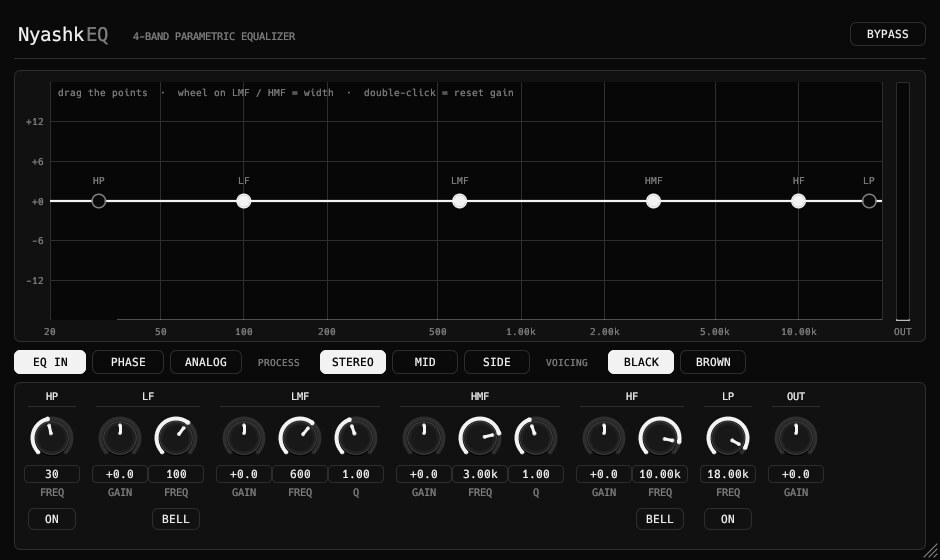
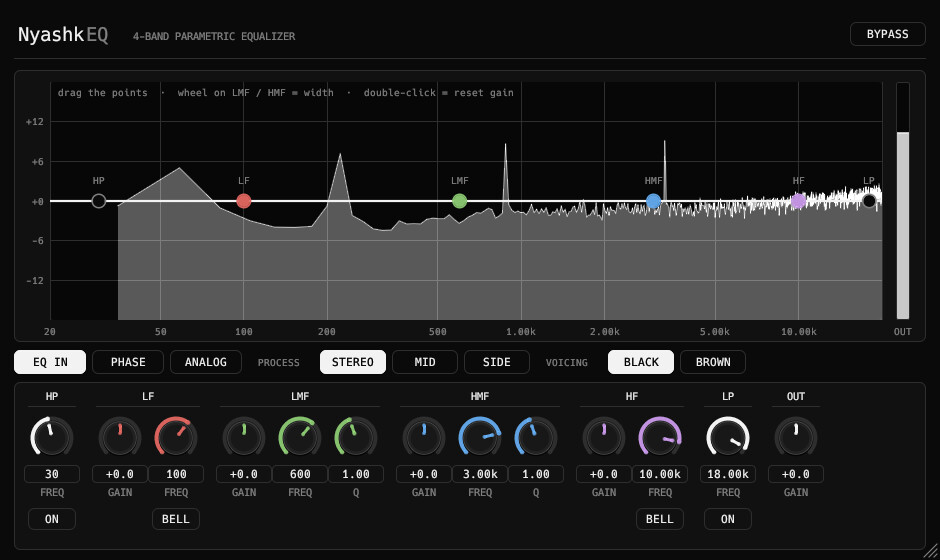
Fix spectrum fill, Air curve dip, NaN guard, band colours, stress tests
Claude-Session: https://claude.ai/code/session_01EndxvcXZsUxUuBFyUHCgZr

diff --git a/crates/common/src/ui.rs b/crates/common/src/ui.rs
@@ -51,8 +51,22 @@ pub fn knob<P: Param>(ui: &mut Ui, setter: &ParamSetter, p: &P, label: &str, cel
     knob_r(ui, setter, p, label, cell, tooltip, bipolar, 30.0)
 }
 
+/// Band colours (muted so they sit well on the black UI): used by the EQ and the channel strip.
+pub const C_LF: Color32 = Color32::from_rgb(0xd8, 0x62, 0x5c);
+pub const C_LMF: Color32 = Color32::from_rgb(0x86, 0xc2, 0x6e);
+pub const C_HMF: Color32 = Color32::from_rgb(0x5f, 0xa3, 0xe4);
+pub const C_HF: Color32 = Color32::from_rgb(0xc0, 0x92, 0xe0);
+pub const C_DYN: Color32 = Color32::from_rgb(0xe2, 0xb0, 0x58);
+pub const C_GATE: Color32 = Color32::from_rgb(0x58, 0xc4, 0xb8);
+
 #[allow(clippy::too_many_arguments)]
 pub fn knob_r<P: Param>(ui: &mut Ui, setter: &ParamSetter, p: &P, label: &str, cell: Rect, tooltip: &str, bipolar: bool, r: f32) -> KnobEv {
+    knob_ac(ui, setter, p, label, cell, tooltip, bipolar, r, WHITE)
+}
+
+/// Knob with an accent colour for the value arc and pointer.
+#[allow(clippy::too_many_arguments)]
+pub fn knob_ac<P: Param>(ui: &mut Ui, setter: &ParamSetter, p: &P, label: &str, cell: Rect, tooltip: &str, bipolar: bool, r: f32, accent: Color32) -> KnobEv {
     let c = Pos2::new(cell.center().x, cell.top() + r + 4.0);
     let hit = Rect::from_center_size(c, Vec2::splat(2.0 * r + 8.0));
     let resp = ui.allocate_rect(hit, Sense::click_and_drag());
@@ -116,9 +130,9 @@ pub fn knob_r<P: Param>(ui: &mut Ui, setter: &ParamSetter, p: &P, label: &str, c
     painter.circle_filled(pt(ring, 1.0), 2.0, LINE);
     let from = if bipolar { 0.5 } else { 0.0 };
     if (norm - from).abs() > 0.002 {
-        painter.add(egui::Shape::line(arc(from, norm), PathStroke::new(4.0, WHITE)));
-        painter.circle_filled(pt(ring, from), 2.0, WHITE);
-        painter.circle_filled(pt(ring, norm), 2.0, WHITE);
+        painter.add(egui::Shape::line(arc(from, norm), PathStroke::new(4.0, accent)));
+        painter.circle_filled(pt(ring, from), 2.0, accent);
+        painter.circle_filled(pt(ring, norm), 2.0, accent);
     }
     // round knob body
     let body = r * 0.72;
@@ -127,9 +141,9 @@ pub fn knob_r<P: Param>(ui: &mut Ui, setter: &ParamSetter, p: &P, label: &str, c
     painter.circle_filled(c, body * 0.84, Color32::from_rgb(24, 24, 24));
     painter.circle_stroke(c, body, Stroke::new(1.0, Color32::from_rgb(70, 70, 70)));
     // pointer
-    painter.line_segment([pt(body * 0.30, norm), pt(body * 0.80, norm)], Stroke::new(3.0, WHITE));
-    painter.circle_filled(pt(body * 0.80, norm), 1.5, WHITE);
-    painter.circle_filled(pt(body * 0.30, norm), 1.5, WHITE);
+    painter.line_segment([pt(body * 0.30, norm), pt(body * 0.80, norm)], Stroke::new(3.0, accent));
+    painter.circle_filled(pt(body * 0.80, norm), 1.5, accent);
+    painter.circle_filled(pt(body * 0.30, norm), 1.5, accent);
 
     // value + label (click the value box to type a number)
     let val = p.normalized_value_to_string(norm, true);
@@ -296,4 +310,23 @@ pub fn vbar(ui: &Ui, rect: Rect, level_db: f32, peak_db: f32, lo: f32, hi: f32) 
 pub fn led(ui: &Ui, c: Pos2, on: bool) {
     ui.painter().circle_filled(c, 3.5, if on { WHITE } else { Color32::from_rgb(0x2a, 0x2a, 0x2a) });
     ui.painter().circle_stroke(c, 3.5, Stroke::new(1.0, LINE));
+}
+
+/// Fill the area between a polyline and the horizontal line `base_y`.
+/// egui fills only convex polygons, so a spectrum has to be drawn as a strip of quads.
+pub fn fill_under(painter: &egui::Painter, pts: &[Pos2], base_y: f32, color: Color32) {
+    if pts.len() < 2 {
+        return;
+    }
+    let mut mesh = egui::epaint::Mesh::default();
+    let uv = egui::epaint::WHITE_UV;
+    for w in pts.windows(2) {
+        let (a, b) = (w[0], w[1]);
+        let i = mesh.vertices.len() as u32;
+        for p in [a, b, Pos2::new(b.x, base_y), Pos2::new(a.x, base_y)] {
+            mesh.vertices.push(egui::epaint::Vertex { pos: p, uv, color });
+        }
+        mesh.indices.extend_from_slice(&[i, i + 1, i + 2, i, i + 2, i + 3]);
+    }
+    painter.add(egui::Shape::mesh(mesh));
 }

diff --git a/plugins/nyashkeq/src/editor.rs b/plugins/nyashkeq/src/editor.rs
@@ -84,7 +84,14 @@ fn node(ui: &mut Ui2, setter: &ParamSetter, g: Rect, id: &str, f: &FloatParam, g
     }
     let hot = resp.hovered() || resp.dragged();
     let painter = ui.painter();
-    let col = if on { WHITE } else { DIM };
+    let accent = match id {
+        "lf" => C_LF,
+        "lmf" => C_LMF,
+        "hmf" => C_HMF,
+        "hf" => C_HF,
+        _ => WHITE,
+    };
+    let col = if on { accent } else { DIM };
     painter.circle_filled(pos, if hot { 8.0 } else { 6.0 }, if on { col } else { BG });
     painter.circle_stroke(pos, if hot { 8.0 } else { 6.0 }, Stroke::new(1.5, col));
     painter.text(pos + Vec2::new(0.0, -15.0), Align2::CENTER_BOTTOM, label, mono(9.5), if hot { WHITE } else { DIM });
@@ -159,10 +166,7 @@ pub fn create(params: Arc<EqParams>, shared: Arc<Shared>) -> Option<Box<dyn Edit
                     })
                     .collect();
                 if spec_pts.len() > 2 {
-                    let mut poly = spec_pts.clone();
-                    poly.push(Pos2::new(g.right(), g.bottom()));
-                    poly.push(Pos2::new(g.left(), g.bottom()));
-                    clip.add(egui::Shape::Path(egui::epaint::PathShape { points: poly, closed: true, fill: Color32::from_white_alpha(22), stroke: PathStroke::NONE }));
+                    fill_under(&clip, &spec_pts, g.bottom(), Color32::from_white_alpha(22));
                     clip.add(egui::Shape::line(spec_pts, PathStroke::new(1.0, Color32::from_white_alpha(70))));
                 }
                 // response curve
@@ -175,11 +179,7 @@ pub fn create(params: Arc<EqParams>, shared: Arc<Shared>) -> Option<Box<dyn Edit
                         Pos2::new(fx(g, f), dy(g, if on { cf.response_db(fs, f) } else { 0.0 }))
                     })
                     .collect();
-                let mut fill = pts.clone();
-                fill.push(Pos2::new(g.right(), dy(g, 0.0)));
-                fill.push(Pos2::new(g.left(), dy(g, 0.0)));
-                // the fill polygon is not convex, so draw it as a path
-                clip.add(egui::Shape::Path(egui::epaint::PathShape { points: fill, closed: true, fill: Color32::from_white_alpha(16), stroke: PathStroke::NONE }));
+                fill_under(&clip, &pts, dy(g, 0.0), Color32::from_white_alpha(16));
                 clip.add(egui::Shape::line(pts, PathStroke::new(2.2, WHITE)));
 
                 // nodes
@@ -265,12 +265,18 @@ pub fn create(params: Arc<EqParams>, shared: Arc<Shared>) -> Option<Box<dyn Edit
                 cx += cw + gap;
                 // bands
                 let mut band = |ui: &mut Ui2, cx: &mut f32, name: &str, g: &FloatParam, f: &FloatParam, third: Option<(&FloatParam, &str, &str)>, bell: Option<&BoolParam>, tips: (&str, &str)| {
+                    let acc = match name {
+                        "LF" => C_LF,
+                        "LMF" => C_LMF,
+                        "HMF" => C_HMF,
+                        _ => C_HF,
+                    };
                     let w = if third.is_some() { cw * 3.0 } else { cw * 2.0 };
                     title(ui, *cx, w, name);
-                    knob_r(ui, setter, g, "GAIN", cell(*cx), tips.0, true, r);
-                    knob_r(ui, setter, f, "FREQ", cell(*cx + cw), tips.1, false, r);
+                    knob_ac(ui, setter, g, "GAIN", cell(*cx), tips.0, true, r, acc);
+                    knob_ac(ui, setter, f, "FREQ", cell(*cx + cw), tips.1, false, r, acc);
                     if let Some((q, lbl, tip)) = third {
-                        knob_r(ui, setter, q, lbl, cell(*cx + 2.0 * cw), tip, false, r);
+                        knob_ac(ui, setter, q, lbl, cell(*cx + 2.0 * cw), tip, false, r, acc);
                     }
                     if let Some(b) = bell {
                         let v = b.value();

diff --git a/crates/common/src/demo.rs b/crates/common/src/demo.rs
@@ -1,0 +1,53 @@
+//! Developer helper for screenshots: with `NYASHK_DEMO=1` the standalone builds replace the input
+//! with a music-like test signal (bass, mids, a bit of top, decorrelated noise).
+use nih_plug::prelude::Buffer;
+use std::sync::Mutex;
+
+struct State {
+    n: u64,
+    rng: u32,
+    lp: [f32; 2],
+    on: bool,
+}
+static ST: Mutex<Option<State>> = Mutex::new(None);
+
+pub fn fill(buffer: &mut Buffer, fs: f32) {
+    let mut g = ST.lock().unwrap();
+    let st = g.get_or_insert_with(|| State { n: 0, rng: 12345, lp: [0.0; 2], on: std::env::var("NYASHK_DEMO").is_ok() });
+    if !st.on {
+        return;
+    }
+    for mut frame in buffer.iter_samples() {
+        let t = st.n as f32 / fs;
+        st.n += 1;
+        let beat = (-(t * 2.0 % 1.0) * 5.0).exp();
+        let mut v = [0.0f32; 2];
+        for (c, s) in frame.iter_mut().enumerate() {
+            st.rng = st.rng.wrapping_mul(1664525).wrapping_add(1013904223);
+            let white = (st.rng >> 8) as f32 / 8388608.0 - 1.0;
+            st.lp[c] += 0.15 * (white - st.lp[c]);
+            let w = std::f32::consts::TAU * t;
+            let x = 0.35 * beat * (w * 55.0).sin()
+                + 0.12 * (w * 220.0).sin()
+                + 0.08 * (w * 880.0 + c as f32).sin()
+                + 0.04 * (w * 3300.0).sin()
+                + 0.10 * st.lp[c]
+                + 0.02 * white;
+            v[c] = x;
+            *s = x * 0.9;
+        }
+        let _ = v;
+    }
+}
+
+/// Replace NaN / infinite input samples by silence, so one bad sample from a host cannot
+/// poison the filter states of a plugin forever.
+pub fn sanitize(buffer: &mut Buffer) {
+    for ch in buffer.as_slice() {
+        for s in ch.iter_mut() {
+            if !s.is_finite() {
+                *s = 0.0;
+            }
+        }
+    }
+}

diff --git a/crates/common/src/dsp.rs b/crates/common/src/dsp.rs
@@ -102,6 +102,13 @@ impl Coef {
         Coef { b0: b0 as f32, b1: (-b0) as f32, b2: 0.0, a1: ((k - 1.0) / (1.0 + k)) as f32, a2: 0.0 }
     }
 
+    /// First-order low-pass (6 dB/oct), bilinear.
+    pub fn lowpass1(fs: f32, f: f32) -> Coef {
+        let k = (std::f64::consts::PI * (f as f64).clamp(5.0, fs as f64 * 0.49) / fs as f64).tan();
+        let b0 = k / (1.0 + k);
+        Coef { b0: b0 as f32, b1: b0 as f32, b2: 0.0, a1: ((k - 1.0) / (1.0 + k)) as f32, a2: 0.0 }
+    }
+
     /// Band-pass with constant 0 dB peak gain.
     pub fn bandpass(fs: f32, f: f32, q: f32) -> Coef {
         let f = (f as f64).clamp(5.0, fs as f64 * 0.49);

diff --git a/plugins/nyashkeq/src/lib.rs b/plugins/nyashkeq/src/lib.rs
@@ -294,6 +294,9 @@ impl Plugin for NyashkEQ {
     }
 
     fn process(&mut self, buffer: &mut Buffer, _aux: &mut AuxiliaryBuffers, _c: &mut impl ProcessContext<Self>) -> ProcessStatus {
+        nyashk_common::demo::sanitize(buffer);
+        #[cfg(feature = "standalone")]
+        nyashk_common::demo::fill(buffer, 48000.0);
         let Some(core) = self.core.as_mut() else { return ProcessStatus::Normal };
         let p = &self.params;
         if p.bypass.value() {

diff --git a/crates/common/src/lib.rs b/crates/common/src/lib.rs
@@ -1,4 +1,5 @@
 //! Shared building blocks of the Nyashk plugins: UI widgets, DSP helpers, FFT, EQ core, sample tap.
+pub mod demo;
 pub mod dsp;
 pub mod eq;
 pub mod fft;
